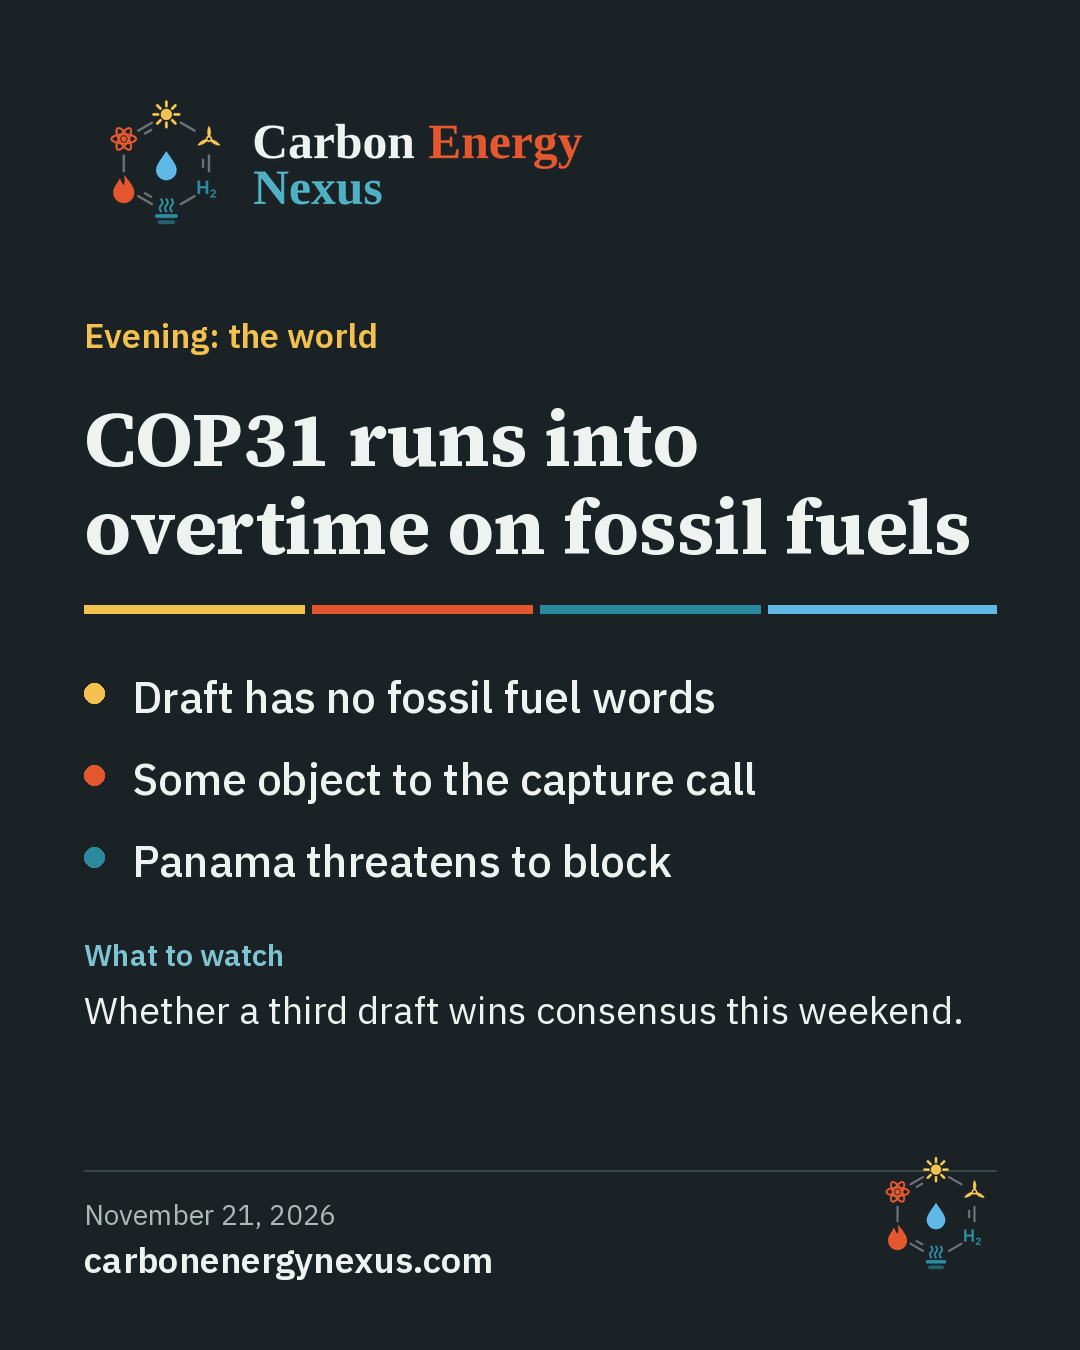
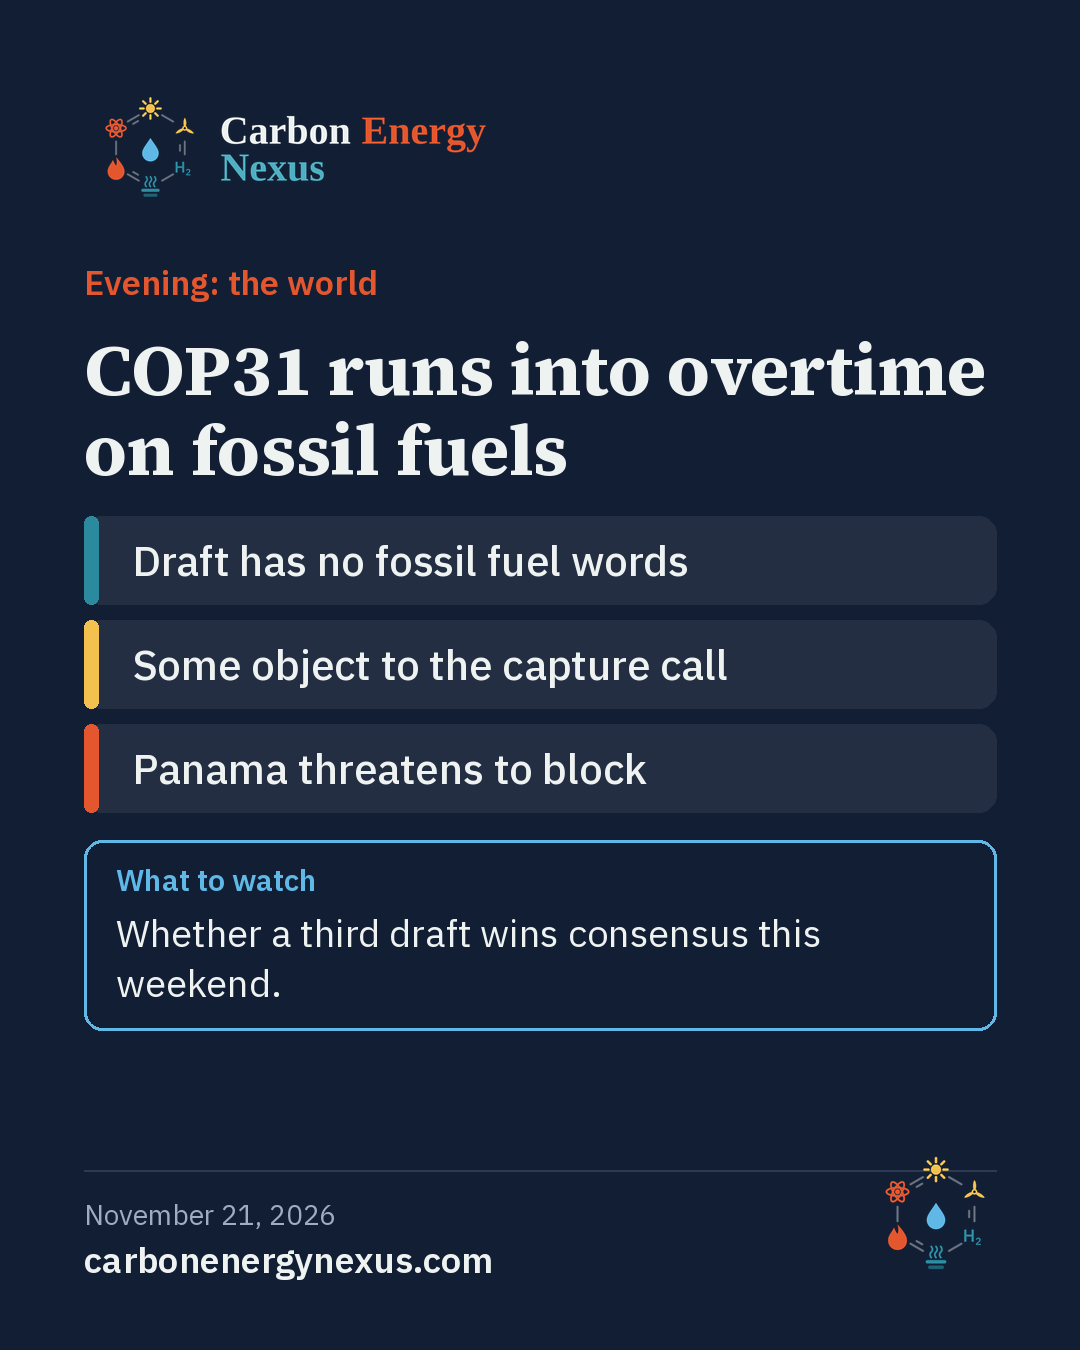
Social graphics: rotate five layouts and six palettes by date and slot; caption variety rules
Claude-Session: https://claude.ai/code/session_01VeWbxujPD9zKhebjgjCaGm

Changed region(s): [[0.0611, 0.1867, 0.9472, 0.7778], [0.0917, 0.0622, 0.55, 0.1556]]

diff --git a/tools/build.py b/tools/build.py
@@ -119,12 +119,25 @@ L += ["", "## Archive and feeds", f"- [Past editions]({SITE}archive/)", f"- [RSS
 L += [f"- [{d['date_long']}: {d['lead']['headline']}]({page_url(d, True)})" for d in list(reversed(data))[:30]]
 open("llms.txt", "w").write("\n".join(L) + "\n")
 
-# Social graphics
+# Social graphics: layouts and palettes rotate by date and slot so posts never look copy pasted
+import re, datetime
 G, PAPER, VOLT, EMBER, AQ, MUTE, LINE, WAT = (26, 34, 38), (238, 242, 241), (242, 193, 78), (228, 87, 46), (43, 138, 158), (174, 185, 183), (58, 70, 76), (95, 184, 230)
+NEXUS, ENERGY = (31, 122, 140), (208, 72, 30)
 def F(w, s): return ImageFont.truetype(f"tools/fonts/{w}.ttf", s)
 SERIF, SERIFB, SANS, SANSM, SANSB = "SourceSerif4-SemiBold", "SourceSerif4-Bold", "IBMPlexSans-Regular", "IBMPlexSans-Medium", "IBMPlexSans-SemiBold"
-lock = Image.open("brand/cen-lockup-white-1200.png").convert("RGBA")
-mark = Image.open("brand/cen-mark-white-400.png").convert("RGBA")
+LOGO = {True: Image.open("brand/cen-lockup-white-1200.png").convert("RGBA"), False: Image.open("brand/cen-lockup-light-1200.png").convert("RGBA")}
+_w = LOGO[True]; LOGO["solid"] = Image.merge("RGBA", (*[Image.new("L", _w.size, 255)] * 3, _w.split()[3]))
+MARK = {True: Image.open("brand/cen-mark-white-400.png").convert("RGBA"), False: Image.open("brand/cen-mark-dark-400.png").convert("RGBA")}
+THEMES = {  # alternating dark and light so each day mixes both
+    "graphite": dict(bg=G, fg=PAPER, mute=MUTE, acc=VOLT, acc2=(79, 176, 194), line=LINE, dark=True),
+    "paper": dict(bg=(244, 246, 245), fg=G, mute=(92, 104, 108), acc=ENERGY, acc2=NEXUS, line=(208, 214, 212), dark=False),
+    "deepteal": dict(bg=(14, 58, 68), fg=PAPER, mute=(160, 196, 202), acc=VOLT, acc2=WAT, line=(40, 88, 98), dark=True),
+    "sand": dict(bg=(250, 243, 228), fg=G, mute=(110, 100, 86), acc=ENERGY, acc2=AQ, line=(228, 216, 190), dark=False),
+    "navy": dict(bg=(18, 30, 52), fg=PAPER, mute=(160, 172, 192), acc=EMBER, acc2=WAT, line=(44, 58, 84), dark=True),
+    "mist": dict(bg=(226, 240, 243), fg=G, mute=(84, 108, 114), acc=NEXUS, acc2=ENERGY, line=(196, 220, 226), dark=False),
+}
+THEME_ORDER = list(THEMES)
+SLOT_IX = {"morning": 0, "midday": 1, "evening": 2}
 
 def wrap(dr, text, font, width):
     words, lines, cur = text.split(), [], ""
@@ -135,54 +148,174 @@ def wrap(dr, text, font, width):
     lines.append(cur)
     return lines
 
-def card(d, s, W, H, path, pad=0):
-    im = Image.new("RGB", (W, H), G); dr = ImageDraw.Draw(im); M = 84
-    lg = lock.resize((620, int(620 * lock.height / lock.width)), Image.LANCZOS); im.paste(lg, (M, M), lg)
-    y = M + lg.height + 70 + pad
-    dr.text((M, y), s["kicker"], font=F(SANSB, 34), fill=VOLT); y += 72
-    hf = F(SERIFB, 88 if H > W * 1.5 else 78)
-    for line in wrap(dr, s["headline"], hf, W - 2 * M):
-        dr.text((M, y), line, font=hf, fill=PAPER); y += int(hf.size * 1.13)
-    y += 44
+def mix(a, b, t): return tuple(int(a[i] + (b[i] - a[i]) * t) for i in range(3))
+def paste_logo(im, dark, x, y, w):
+    lg = LOGO[dark].resize((w, int(w * LOGO[dark].height / LOGO[dark].width)), Image.LANCZOS); im.paste(lg, (x, y), lg); return lg.height
+def text_block(dr, x, y, text, font, fill, width, lead=1.13):
+    for line in wrap(dr, text, font, width):
+        dr.text((x, y), line, font=font, fill=fill); y += int(font.size * lead)
+    return y
+def watch_block(dr, s, th, x, y, width, label="What to watch"):
+    if not s.get("watch"): return y
+    dr.text((x, y), label, font=F(SANSB, 30), fill=th["acc2"]); y += 50
+    return text_block(dr, x, y, s["watch"], F(SANS, 38), th["fg"], width, 1.37)
+def footer(im, dr, d, th, W, H, M):
+    dr.line((M, H - M - 96, W - M, H - M - 96), fill=th["line"], width=2)
+    dr.text((M, H - M - 70), d["date_long"], font=F(SANS, 28), fill=th["mute"])
+    dr.text((M, H - M - 30), "carbonenergynexus.com", font=F(SANSB, 36), fill=th["fg"])
+    mk = MARK[th["dark"]].resize((120, 120), Image.LANCZOS); im.paste(mk, (W - M - 120, H - M - 112), mk)
+
+def lay_classic(im, dr, d, s, th, W, H, M, pad, n):
+    y = M + paste_logo(im, th["dark"], M, M, 620) + 70 + pad
+    dr.text((M, y), s["kicker"], font=F(SANSB, 34), fill=th["acc"]); y += 72
+    y = text_block(dr, M, y, s["headline"], F(SERIFB, 88 if H > W * 1.5 else 78), th["fg"], W - 2 * M) + 44
     seg = (W - 2 * M) // 4
     for i, c in enumerate((VOLT, EMBER, AQ, WAT)):
         dr.rectangle((M + i * seg, y, M + (i + 1) * seg - (8 if i < 3 else 0), y + 8), fill=c)
     y += 62
     pf = F(SANSM, 44)
     for i, p in enumerate(s["points"]):
-        c = (VOLT, EMBER, AQ)[i % 3]
-        dr.ellipse((M, y + 16, M + 20, y + 36), fill=c)
-        for line in wrap(dr, p, pf, W - 2 * M - 50):
-            dr.text((M + 48, y), line, font=pf, fill=PAPER); y += 58
-        y += 24
+        dr.ellipse((M, y + 16, M + 20, y + 36), fill=(VOLT, EMBER, AQ)[i % 3])
+        y = text_block(dr, M + 48, y, p, pf, th["fg"], W - 2 * M - 50, 1.32) + 24
+    return watch_block(dr, s, th, M, y + 22, W - 2 * M)
+
+def lay_split(im, dr, d, s, th, W, H, M, pad, n):
+    blocks = [ENERGY, NEXUS] if th["dark"] else [ENERGY, NEXUS, G]
+    blk = blocks[n % len(blocks)]
+    hf = F(SERIFB, 92 if H > W * 1.5 else 82)
+    hl = wrap(dr, s["headline"], hf, W - 2 * M)
+    top = M + 160 + pad
+    bh = top + 64 + len(hl) * int(hf.size * 1.12) + 56
+    dr.rectangle((0, 0, W, bh), fill=blk)
+    paste_logo(im, "solid", M, M, 460)
+    dr.text((M, top), s["kicker"].upper(), font=F(SANSB, 30), fill=mix(blk, (255, 255, 255), 0.8))
+    y = top + 64
+    for line in hl:
+        dr.text((M, y), line, font=hf, fill=(255, 255, 255)); y += int(hf.size * 1.12)
+    y = bh + 60
+    nf, pf = F(SERIFB, 64), F(SANSM, 42)
+    for i, p in enumerate(s["points"]):
+        dr.text((M, y - 10), f"0{i + 1}", font=nf, fill=(th["acc"], th["acc2"], blk if not th["dark"] else th["acc"])[i % 3])
+        y = text_block(dr, M + 120, y, p, pf, th["fg"], W - 2 * M - 120, 1.3) + 30
+    return watch_block(dr, s, th, M, y + 16, W - 2 * M, "Next")
+
+NUM = re.compile(r"[€$£]?\d[\d,.]*(?:%|\s?(?:GWh|GW|MW|Mt|bn|km|M|B|t)\b)?")
+def stat_of(s):
+    for i, p in enumerate(s["points"]):
+        m = NUM.search(p)
+        if m and len(m.group().strip()) >= 2: return i, m.group().strip()
+    return None
+def lay_stat(im, dr, d, s, th, W, H, M, pad, n):
+    st = stat_of(s)
+    if not st: return None
+    i0, num = st
+    y = M + paste_logo(im, th["dark"], M, M, 480) + 48 + pad
+    dr.text((M, y), s["kicker"], font=F(SANSB, 32), fill=th["acc2"]); y += 54
+    sz = 230 if H > W * 1.5 else 200
+    while dr.textlength(num, font=F(SERIFB, sz)) > W - 2 * M: sz -= 10
+    nf = F(SERIFB, sz)
+    dr.text((M, y - int(sz * 0.12)), num, font=nf, fill=th["acc"]); y += int(sz * 1.02)
+    y = text_block(dr, M, y, s["points"][i0], F(SANSM, 44), th["fg"], W - 2 * M, 1.3) + 26
+    dr.rectangle((M, y, M + 140, y + 10), fill=th["acc"]); y += 44
+    y = text_block(dr, M, y, s["headline"], F(SERIFB, 70 if H > W * 1.5 else 58), th["fg"], W - 2 * M, 1.12) + 22
+    pf = F(SANS, 38)
+    for i, p in enumerate(s["points"]):
+        if i == i0: continue
+        dr.rectangle((M, y + 22, M + 22, y + 28), fill=th["acc2"])
+        y = text_block(dr, M + 44, y, p, pf, th["fg"], W - 2 * M - 44, 1.3) + 10
+    return watch_block(dr, s, th, M, y + 14, W - 2 * M)
+
+def lay_editorial(im, dr, d, s, th, W, H, M, pad, n):
+    paste_logo(im, th["dark"], M, M, 440)
+    y = M + 150 + pad
+    kf = F(SANSB, 30)
+    kw = int(dr.textlength(s["kicker"], font=kf))
+    dr.rounded_rectangle((M, y, M + kw + 44, y + 54), radius=27, fill=th["acc"])
+    dr.text((M + 22, y + 9), s["kicker"], font=kf, fill=(255, 255, 255) if th["acc"] != VOLT else G); y += 84
+    hf = F(SERIFB, 96 if H > W * 1.5 else 80)
+    y1 = text_block(dr, M + 44, y, s["headline"], hf, th["fg"], W - 2 * M - 44, 1.1)
+    dr.rectangle((M, y + 10, M + 14, y1 - 14), fill=th["acc"])
+    y = y1 + 40
+    cw, gap = (W - 2 * M - 2 * 28) // 3, 28
+    pf, nf = F(SANSM, 34), F(SERIFB, 54)
+    tint = mix(th["bg"], th["fg"], 0.07)
+    hts = [len(wrap(dr, p, pf, cw - 44)) for p in s["points"]]
+    ch = 100 + max(hts) * 46 + 26
+    for i, p in enumerate(s["points"][:3]):
+        x = M + i * (cw + gap)
+        dr.rounded_rectangle((x, y, x + cw, y + ch), radius=22, fill=tint)
+        dr.text((x + 22, y + 14), str(i + 1), font=nf, fill=(th["acc"], th["acc2"], th["acc"])[i])
+        text_block(dr, x + 22, y + 92, p, pf, th["fg"], cw - 44, 1.35)
+    y += ch + 40
     if s.get("watch"):
-        y += 22
-        dr.text((M, y), "What to watch", font=F(SANSB, 30), fill=AQ if False else (126, 195, 209)); y += 50
+        y = text_block(dr, M, y, s["watch"], F(SERIF, 40), th["fg"], W - 2 * M, 1.3)
+    return y
+
+def lay_tiles(im, dr, d, s, th, W, H, M, pad, n):
+    y = M + paste_logo(im, th["dark"], M, M, 500) + 48 + pad
+    dr.text((M, y), s["kicker"], font=F(SANSB, 34), fill=th["acc"]); y += 60
+    y = text_block(dr, M, y, s["headline"], F(SERIFB, 84 if H > W * 1.5 else 72), th["fg"], W - 2 * M, 1.12) + 36
+    tint = mix(th["bg"], th["fg"], 0.08)
+    pf = F(SANSM, 42)
+    for i, p in enumerate(s["points"]):
+        ls = wrap(dr, p, pf, W - 2 * M - 80)
+        h = 36 + len(ls) * 52
+        dr.rounded_rectangle((M, y, W - M, y + h), radius=18, fill=tint)
+        dr.rounded_rectangle((M, y, M + 14, y + h), radius=7, fill=(VOLT, EMBER, AQ)[(i + n) % 3])
+        yy = y + 16
+        for line in ls:
+            dr.text((M + 48, yy), line, font=pf, fill=th["fg"]); yy += 52
+        y += h + 16
+    y += 12
+    if s.get("watch"):
         wf = F(SANS, 38)
-        for line in wrap(dr, s["watch"], wf, W - 2 * M):
-            dr.text((M, y), line, font=wf, fill=PAPER); y += 52
-    end = y
-    dr.line((M, H - M - 96, W - M, H - M - 96), fill=LINE, width=2)
-    dr.text((M, H - M - 70), d["date_long"], font=F(SANS, 28), fill=MUTE)
-    dr.text((M, H - M - 30), "carbonenergynexus.com", font=F(SANSB, 36), fill=PAPER)
-    mk = mark.resize((120, 120), Image.LANCZOS); im.paste(mk, (W - M - 120, H - M - 112), mk)
+        ls = wrap(dr, s["watch"], wf, W - 2 * M - 64)
+        h = 90 + len(ls) * 50
+        dr.rounded_rectangle((M, y, W - M, y + h), radius=18, outline=th["acc2"], width=3)
+        dr.text((M + 32, y + 20), "What to watch", font=F(SANSB, 30), fill=th["acc2"])
+        text_block(dr, M + 32, y + 68, s["watch"], wf, th["fg"], W - 2 * M - 64, 1.32)
+        y += h
+    return y
+
+LAYOUTS = {"classic": lay_classic, "split": lay_split, "stat": lay_stat, "editorial": lay_editorial, "tiles": lay_tiles}
+LAYOUT_ORDER = list(LAYOUTS)
+FORCE = False
+
+def design_for(d, s, slot):
+    n, k = datetime.date.fromisoformat(d["date"]).toordinal(), SLOT_IX.get(slot, 0)
+    li = (2 * n + k) % len(LAYOUT_ORDER)
+    ti = (n + (0, 3, 1)[k]) % len(THEME_ORDER)
+    lays = [s.get("design", {}).get("layout")] if s.get("design", {}).get("layout") in LAYOUTS else []
+    lays += [LAYOUT_ORDER[(li + j) % len(LAYOUT_ORDER)] for j in range(len(LAYOUT_ORDER))]
+    th = s.get("design", {}).get("theme")
+    return n + k, lays, THEMES[th if th in THEMES else THEME_ORDER[ti]]
+
+def card(d, s, W, H, path, lay, th, n, pad=0):
+    im = Image.new("RGB", (W, H), th["bg"]); dr = ImageDraw.Draw(im); M = 84
+    end = LAYOUTS[lay](im, dr, d, s, th, W, H, M, pad, n)
+    if end is None or (end > H - M - 130 and not FORCE): return None
+    footer(im, dr, d, th, W, H, M)
     im.save(path, optimize=True)
     return end
 
-def render_slot(d, s, base):
-    card(d, s, 1080, 1350, f"social/{base}.png")
-    end = card(d, s, 1080, 1920, f"social/{base}-story.png")
-    free = (1920 - 84 - 150) - end
-    if free > 80:
-        card(d, s, 1080, 1920, f"social/{base}-story.png", pad=free // 2)
+def render_slot(d, s, base, slot):
+    n, lays, th = design_for(d, s, slot)
+    for lay in lays:
+        if card(d, s, 1080, 1350, f"social/{base}.png", lay, th, n) is None: continue
+        end = card(d, s, 1080, 1920, f"social/{base}-story.png", lay, th, n)
+        free = (1920 - 84 - 150) - (end or 0)
+        if end and free > 80:
+            card(d, s, 1080, 1920, f"social/{base}-story.png", lay, th, n, pad=free // 2)
+        return lay
+    raise SystemExit(f"social card for {base} does not fit any layout; shorten the headline or points")
 
 for d in data:
     if "social" not in d: continue
     if d is latest or not os.path.exists(f"social/{d['date']}.png"):
-        render_slot(d, d["social"], d["date"])
+        render_slot(d, d["social"], d["date"], "morning")
         open(f"social/{d['date']}.txt", "w").write(d["social"]["caption"] + "\n")
         for slot, ss in d.get("social_slots", {}).items():
-            render_slot(d, ss, f"{d['date']}-{slot}")
+            render_slot(d, ss, f"{d['date']}-{slot}", slot)
             open(f"social/{d['date']}-{slot}.txt", "w").write(ss["caption"] + "\n")
 
 slots = {"morning": {"image": f"{SITE}social/{latest['date']}.png", "story": f"{SITE}social/{latest['date']}-story.png", "caption": latest["social"]["caption"]}}

diff --git a/CLAUDE.md b/CLAUDE.md
@@ -16,6 +16,11 @@ Brief ids "money" and "world" must exist. Tracker stages: 1 Announced, 2 Feasibi
 - innovation: three to five items mixing academia (peer reviewed papers, university releases) and private sector (company launches, first of a kind plants, funding rounds tied to a real milestone). Link straight to the paper or announcement.
 - events: upcoming conferences, deadlines and market dates across carbon, renewables (solar, wind, storage), hydrogen, power and minerals, sorted by date, each linked to the organizer's page or a source. Drop past dates each day; keep 12 to 18 entries running at least a year ahead.
 
+## Social variety (Raj, Nov 21, 2026): posts must not look copy pasted
+- Design: build.py rotates five layouts (classic, split, stat, editorial, tiles) and six palettes (graphite, paper, deepteal, sand, navy, mist) by date and slot, so the three daily slots never share a layout or palette and each slot changes from the day before. Light and dark mix every day. The stat layout pulls the first number in the points (a year, %, $, GWh, Mt) as a giant figure, so put one strong number in a point when the story has one. Optional per slot override: "design": {"layout": "...", "theme": "..."}; use it only to break an accidental repeat.
+- Captions: vary the shape every slot and every day. Rotate the opening (lead with the number, lead with who is affected, a plain question, a contrast such as "X, but Y", or the place and date); vary length (one tight sentence up to three); and rotate the closing line instead of always "More at carbonenergynexus.com" (for example "Full brief: carbonenergynexus.com", "Why it matters for capital and water: carbonenergynexus.com", "Read the nexus angle at carbonenergynexus.com", "Track the project at carbonenergynexus.com", "Today's edition: carbonenergynexus.com"). Never reuse yesterday's opening pattern or closing line for the same slot, and never give two slots on the same day the same closing line.
+- Points and watch lines: mix forms (a number, a who, a when, a risk); do not start all three points with the same word type.
+
 ## Editorial rules
 - Niche: where carbon, energy, water and capital meet (CCS and storage, carbon markets and removals, hydrogen and low-carbon fuels, power and data center load, produced water, brine and the water footprint of energy and carbon, subsurface, policy, project finance, research). Audience: investors, regulators, industry, founders, the public.
 - Every fact sourced, dated and linked. Never invent numbers. Paraphrase; at most one short quote per source.
